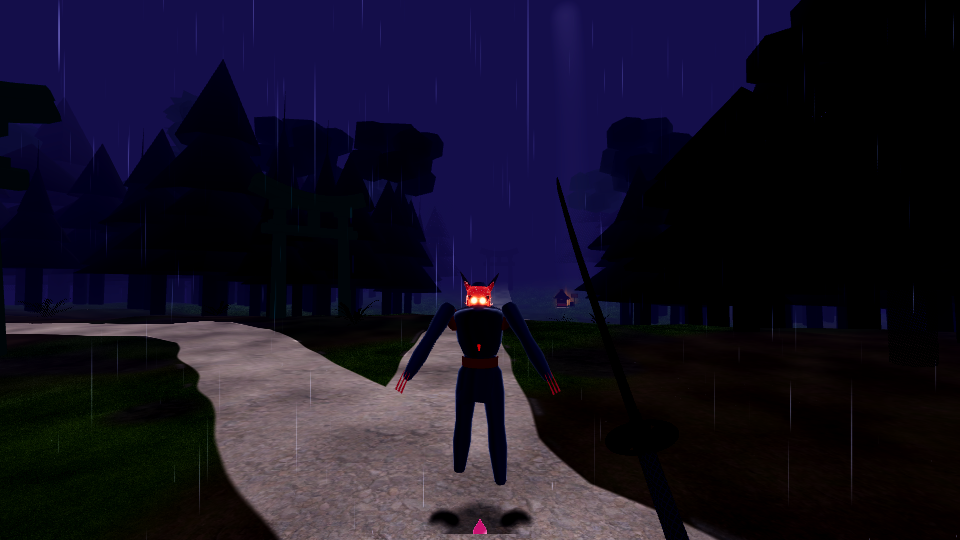
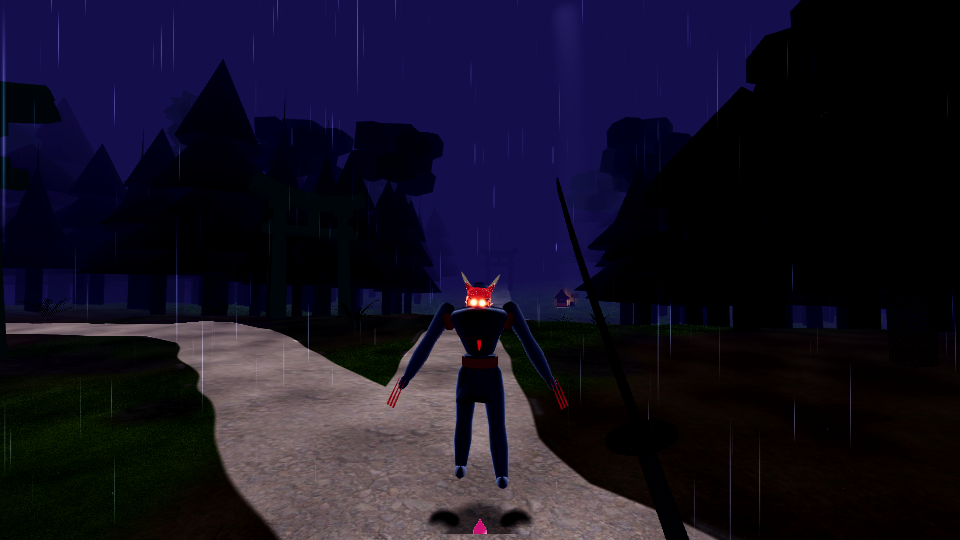
fix(n12): visibly organic yōkai – V torso (narrow waist, broad rounded shoulders), forward lean, hands + feet merged into limb meshes (feet on the foot box: no more floating look), longer claws, skin gradient (darker joints/collar), wider enemy-only rim (rim_power), ivory horn lift; lean-aware tube 

diff --git a/docs/n12/README.md b/docs/n12/README.md
@@ -9,3 +9,13 @@ Zmiany (świat, las, sakura, światło sceny bez zmian):
 Zrzuty (run.tscn, ta sama kamera): `PRE_/POST_swarm_4m.png`, `PRE_/POST_swarm_3m.png`.
 
 Słabe / otwarte: sylwetka nadal prosta (to wciąż tuby, bez fałd szaty); rim subtelny – z 4 m widać go głównie na krawędziach ramion. Sprawdzenie „rogi na tle nieba" jest zależne od błyskawicy (w bazowym przebiegu 0.096, w ostatnim po zmianach 0.041 < 0.05, rogi i maska nie były zmieniane) – wymaga deterministycznej pogody w teście.
+
+## Fix 1 (review: „PRE i PO wyglądają tak samo”)
+- **Sylwetka**: tors w kształcie V (talia 0.10 → barki 0.24, zaokrąglone), pochylenie do przodu w samym meshu (`CHEST_LEAN` 0.30), sode przesunięte na barki, dłoń (spłaszczona elipsoida) i **stopa** wtopione w mesh kończyny (bez dodatkowego draw calla), pazury dłuższe (0.15 → 0.21 m). Trójkąty ciała ~670 → ~1250, czyli około +17 % na całego wroga. Draw calls bez zmian. Kolizje bez zmian.
+- **Wróg „wisiał”**: to nie był błąd spawnu. Fizycznie stał na niewidocznym boxie stopy (`extra_shapes` nogi), a mesh nogi kończył się na kostce ~4 cm nad ziemią. Teraz stopa jest widoczna dokładnie na tym boxie.
+- **Rim**: mocniejszy `SKIN_RIM` i szersze pasmo (`rim_power` 1.7, nowy uniform, domyślnie 2.4 jak dotąd), więc obrys torsu, głowy i nóg widać na 4 m. Lift w teście: 0.0013 → 0.0170.
+- **Gradient albedo** wzdłuż każdej bryły: góra ciemnieje przy stawie, czyli cień kołnierza pod maską i ciemniejsze barki/biodra.
+- **Rogi**: bez błyskawic kość słoniowa była tak ciemna jak niebo (test przechodził wcześniej tylko dzięki losowym błyskom). Dostały emisję własnego koloru (`HORN_LIFT` 0.5), kształt bez zmian. Gaśnie przy śmierci.
+- **Test deterministyczny**: piorun wyłączony, `seed()` na wariacje pozy. Dwa przebiegi dały identyczne liczby. Progi bez zmian. Poprawione nawijanie trójkątów przy większym pochyleniu (oś pochylona razem z pierścieniami), co wyłapał `dismember_test`.
+
+Słabe: stopy mają na zrzucie jasne kropki (rim i niebo na małej bryle), a ciało to nadal gładkie tuby bez fałd szaty. Odstęp kolorów szkół na 8 m jest bliski progu (0.14 przy progu 0.12). Czwarty wróg stoi w kadrze za pniem, a to się nie zmieniło.
